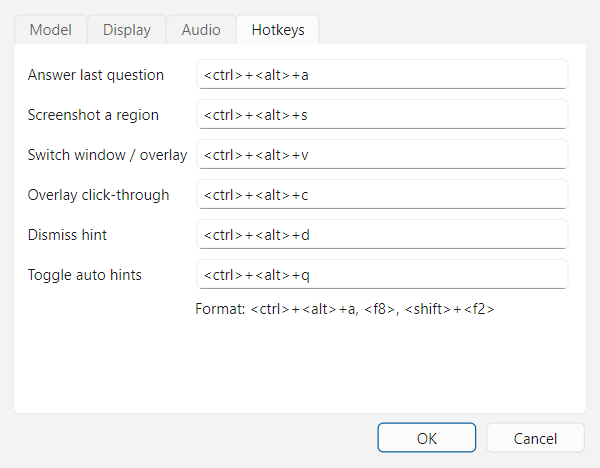
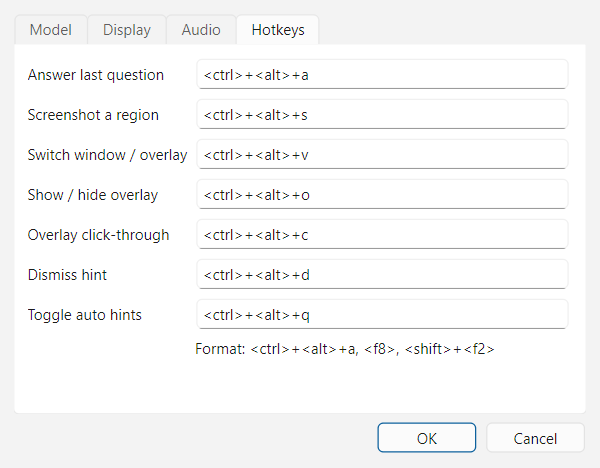
Overlay: resize by edges and corners, move by the status line; hotkey to show/hide the overlay

diff --git a/src/shade/ui/overlay.py b/src/shade/ui/overlay.py
@@ -1,20 +1,69 @@
-"""Semi-transparent always-on-top overlay mode."""
+"""Semi-transparent always-on-top overlay mode.
+
+Frameless, so it draws its own thin frame: drag an edge or corner to resize,
+drag the status line at the top to move. Position and size are remembered.
+"""
 
 from __future__ import annotations
 
-from PySide6.QtCore import QPoint, Qt
+from PySide6.QtCore import QEvent, QPoint, QSize, Qt, QTimer
+from PySide6.QtGui import QColor, QPainter, QPen
 from PySide6.QtWidgets import QVBoxLayout, QWidget
 
 from shade.ui.capture_guard import CaptureExcluded
-from shade.ui.ui_state import ui_state
 from shade.ui.hint_view import HintView
 from shade.ui.theme import overlay_stylesheet
+from shade.ui.ui_state import ui_state
 
 BASE_FLAGS = (
     Qt.WindowType.FramelessWindowHint
     | Qt.WindowType.WindowStaysOnTopHint
     | Qt.WindowType.Tool
 )
+RESIZE_MARGIN = 6  # px of frame around the content that resizes the overlay
+CORNER_EXTENT = 16  # px along an edge near a corner that grab the corner
+DEFAULT_SIZE = QSize(560, 470)
+
+_CURSORS = {
+    Qt.Edge.LeftEdge: Qt.CursorShape.SizeHorCursor,
+    Qt.Edge.RightEdge: Qt.CursorShape.SizeHorCursor,
+    Qt.Edge.TopEdge: Qt.CursorShape.SizeVerCursor,
+    Qt.Edge.BottomEdge: Qt.CursorShape.SizeVerCursor,
+}
+
+
+def edges_at(pos: QPoint, size: QSize, margin: int = RESIZE_MARGIN) -> Qt.Edge:
+    """Which window edges a point inside the overlay is close enough to grab."""
+    x, y, w, h = pos.x(), pos.y(), size.width(), size.height()
+    on_frame = x < margin or x >= w - margin or y < margin or y >= h - margin
+    if not on_frame:
+        return Qt.Edge(0)
+    # Near a corner, a wider zone along either edge grabs the corner.
+    reach_x = CORNER_EXTENT if (y < CORNER_EXTENT or y >= h - CORNER_EXTENT) else margin
+    reach_y = CORNER_EXTENT if (x < CORNER_EXTENT or x >= w - CORNER_EXTENT) else margin
+    edges = Qt.Edge(0)
+    if x < reach_x:
+        edges |= Qt.Edge.LeftEdge
+    elif x >= w - reach_x:
+        edges |= Qt.Edge.RightEdge
+    if y < reach_y:
+        edges |= Qt.Edge.TopEdge
+    elif y >= h - reach_y:
+        edges |= Qt.Edge.BottomEdge
+    return edges
+
+
+def _cursor_for(edges: Qt.Edges) -> Qt.CursorShape:
+    diag_main = (Qt.Edge.LeftEdge | Qt.Edge.TopEdge, Qt.Edge.RightEdge | Qt.Edge.BottomEdge)
+    diag_anti = (Qt.Edge.RightEdge | Qt.Edge.TopEdge, Qt.Edge.LeftEdge | Qt.Edge.BottomEdge)
+    if edges in diag_main:
+        return Qt.CursorShape.SizeFDiagCursor
+    if edges in diag_anti:
+        return Qt.CursorShape.SizeBDiagCursor
+    for edge, cursor in _CURSORS.items():
+        if edges == edge:
+            return cursor
+    return Qt.CursorShape.ArrowCursor
 
 
 class Overlay(CaptureExcluded, QWidget):
@@ -29,16 +78,27 @@ class Overlay(CaptureExcluded, QWidget):
         super().__init__(None, BASE_FLAGS)
         self.setAttribute(Qt.WidgetAttribute.WA_TranslucentBackground)
         self.setObjectName("overlay")
+        self.setMouseTracking(True)
+        self.setMinimumSize(240, 140)
         self.apply_style(bg_color, text_color, opacity)
         self.view = HintView(transcript_lines=3, show_history=False, font_size=font_size, compact=True)
         layout = QVBoxLayout(self)
-        layout.setContentsMargins(0, 0, 0, 0)
+        layout.setContentsMargins(RESIZE_MARGIN, RESIZE_MARGIN, RESIZE_MARGIN, RESIZE_MARGIN)
         layout.addWidget(self.view)
-        self.resize(560, 470)
-        pos = ui_state().value("overlay/pos")
+        # The status line doubles as the title bar: drag it to move the overlay.
+        self.view._status.installEventFilter(self)
+        self.view._status.setCursor(Qt.CursorShape.SizeAllCursor)
+
+        state = ui_state()
+        size = state.value("overlay/size")
+        self.resize(size if isinstance(size, QSize) else DEFAULT_SIZE)
+        pos = state.value("overlay/pos")
         if pos is not None:
             self.move(pos)
-        self._drag_from: QPoint | None = None
+        self._save_timer = QTimer(self)
+        self._save_timer.setSingleShot(True)
+        self._save_timer.setInterval(400)
+        self._save_timer.timeout.connect(self.save_geometry)
         self.click_through = False
         self.set_click_through(click_through)
 
@@ -53,15 +113,50 @@ class Overlay(CaptureExcluded, QWidget):
         if visible:
             self.show()  # flag changes hide the window and recreate it
 
-    # Drag anywhere to move (when not click-through).
-    def mousePressEvent(self, e):  # noqa: N802
-        if e.button() == Qt.MouseButton.LeftButton:
-            self._drag_from = e.globalPosition().toPoint() - self.frameGeometry().topLeft()
+    def save_geometry(self) -> None:
+        state = ui_state()
+        state.setValue("overlay/pos", self.pos())
+        state.setValue("overlay/size", self.size())
+        state.sync()
+
+    # ---- frame ----------------------------------------------------------
+
+    def paintEvent(self, event):  # noqa: N802
+        # Fully transparent pixels don't receive the mouse on Windows, so the
+        # resize frame is painted faintly (and doubles as a visible border).
+        p = QPainter(self)
+        p.fillRect(self.rect(), QColor(0, 0, 0, 30))  # every pixel, corners included
+        p.setPen(QPen(QColor(255, 255, 255, 60), 1))
+        p.drawRect(self.rect().adjusted(0, 0, -1, -1))
 
     def mouseMoveEvent(self, e):  # noqa: N802
-        if self._drag_from is not None:
-            self.move(e.globalPosition().toPoint() - self._drag_from)
+        self.setCursor(_cursor_for(edges_at(e.position().toPoint(), self.size())))
 
-    def mouseReleaseEvent(self, e):  # noqa: N802
-        self._drag_from = None
-        ui_state().setValue("overlay/pos", self.pos())
+    def mousePressEvent(self, e):  # noqa: N802
+        if e.button() != Qt.MouseButton.LeftButton:
+            return
+        edges = edges_at(e.position().toPoint(), self.size())
+        handle = self.windowHandle()
+        if edges and handle is not None:
+            handle.startSystemResize(edges)
+        elif handle is not None:
+            handle.startSystemMove()
+
+    def eventFilter(self, obj, event):  # noqa: N802
+        if (
+            obj is self.view._status
+            and event.type() == QEvent.Type.MouseButtonPress
+            and event.button() == Qt.MouseButton.LeftButton
+            and self.windowHandle() is not None
+        ):
+            self.windowHandle().startSystemMove()
+            return True
+        return super().eventFilter(obj, event)
+
+    def moveEvent(self, event):  # noqa: N802
+        super().moveEvent(event)
+        self._save_timer.start()
+
+    def resizeEvent(self, event):  # noqa: N802
+        super().resizeEvent(event)
+        self._save_timer.start()

diff --git a/tests/test_overlay.py b/tests/test_overlay.py
@@ -1,0 +1,63 @@
+from PySide6.QtCore import QPoint, QSize, Qt
+
+from shade.config import Settings
+from shade.ui.hotkeys import ACTIONS, HotkeyManager
+from shade.ui.overlay import Overlay, edges_at
+from shade.ui.settings_dialog import HOTKEY_LABELS
+
+E = Qt.Edge
+SIZE = QSize(500, 400)
+
+
+def test_edges_in_the_middle_is_none():
+    assert edges_at(QPoint(250, 200), SIZE) == Qt.Edge(0)
+    assert not edges_at(QPoint(250, 200), SIZE)
+
+
+def test_edges_at_sides_and_corners():
+    assert edges_at(QPoint(2, 200), SIZE) == E.LeftEdge
+    assert edges_at(QPoint(497, 200), SIZE) == E.RightEdge
+    assert edges_at(QPoint(250, 1), SIZE) == E.TopEdge
+    assert edges_at(QPoint(250, 398), SIZE) == E.BottomEdge
+    assert edges_at(QPoint(498, 398), SIZE) == E.RightEdge | E.BottomEdge
+    assert edges_at(QPoint(1, 1), SIZE) == E.LeftEdge | E.TopEdge
+
+
+def test_overlay_remembers_its_size(qtbot):
+    o = Overlay()
+    qtbot.addWidget(o)
+    o.resize(700, 333)
+    o.save_geometry()
+    o2 = Overlay()
+    qtbot.addWidget(o2)
+    assert o2.size() == QSize(700, 333)
+
+
+def test_overlay_has_a_minimum_size(qtbot):
+    o = Overlay()
+    qtbot.addWidget(o)
+    assert o.minimumWidth() >= 200 and o.minimumHeight() >= 120
+
+
+def test_toggle_overlay_hotkey():
+    assert "toggle_overlay" in ACTIONS
+    assert Settings().hotkeys["toggle_overlay"] == "<ctrl>+<alt>+o"
+    assert HOTKEY_LABELS["toggle_overlay"] == "Show / hide overlay"
+    valid, errors = HotkeyManager.parse(Settings().hotkeys)
+    assert errors == [] and "toggle_overlay" in valid
+
+
+def test_corner_zone_is_larger_than_the_frame():
+    # Near a corner, being on one edge is enough to grab both.
+    assert edges_at(QPoint(490, 398), SIZE) == E.RightEdge | E.BottomEdge
+    assert edges_at(QPoint(498, 388), SIZE) == E.RightEdge | E.BottomEdge
+
+
+def test_frame_is_never_fully_transparent(qtbot):
+    o = Overlay()
+    qtbot.addWidget(o)
+    o.show()
+    img = o.grab().toImage()
+    from PySide6.QtGui import QColor
+    for x, y in ((0, 0), (img.width() - 1, img.height() - 1), (img.width() - 1, 0)):
+        assert QColor.fromRgba(img.pixel(x, y)).alpha() > 0

diff --git a/src/shade/ui/app.py b/src/shade/ui/app.py
@@ -136,6 +136,8 @@ class ShadeApp(QObject):
     def on_hotkey(self, action: str) -> None:
         if action == "toggle_view":
             self.toggle_view()
+        elif action == "toggle_overlay":
+            self.toggle_overlay()
         elif action == "click_through":
             self.overlay.set_click_through(not self.overlay.click_through)
             self.settings.click_through = self.overlay.click_through
@@ -306,6 +308,16 @@ class ShadeApp(QObject):
         save_settings(self.settings, self.settings_path)
         self.view_actions[mode].setChecked(True)
         self.show_current_view()
+
+    def toggle_overlay(self) -> None:
+        """Show or hide the overlay without touching the window mode setting."""
+        if self.overlay.isVisible():
+            self.overlay.hide()
+        else:
+            self.overlay.show()
+            self.overlay.raise_()
+            if not self.overlay.capture_ok:
+                self.bridge.emit_event(Status(CAPTURE_WARNING))
 
     def toggle_view(self) -> None:
         self.set_display_mode("window" if self.settings.display_mode == "overlay" else "overlay")

diff --git a/src/shade/ui/hotkeys.py b/src/shade/ui/hotkeys.py
@@ -12,7 +12,9 @@ from PySide6.QtCore import QObject, Signal
 from pynput import keyboard
 from pynput.keyboard import Key, KeyCode
 
-ACTIONS = ("ask", "screenshot", "toggle_view", "click_through", "dismiss", "toggle_auto")
+ACTIONS = (
+    "ask", "screenshot", "toggle_view", "toggle_overlay", "click_through", "dismiss", "toggle_auto",
+)
 
 _MODIFIERS = {
     Key.ctrl_l: Key.ctrl, Key.ctrl_r: Key.ctrl,

diff --git a/src/shade/ui/settings_dialog.py b/src/shade/ui/settings_dialog.py
@@ -37,6 +37,7 @@ HOTKEY_LABELS = {
     "ask": "Answer last question",
     "screenshot": "Screenshot a region",
     "toggle_view": "Switch window / overlay",
+    "toggle_overlay": "Show / hide overlay",
     "click_through": "Overlay click-through",
     "dismiss": "Dismiss hint",
     "toggle_auto": "Toggle auto hints",

diff --git a/src/shade/config.py b/src/shade/config.py
@@ -46,6 +46,7 @@ DEFAULT_HOTKEYS = {
     "ask": "<ctrl>+<alt>+a",
     "screenshot": "<ctrl>+<alt>+s",
     "toggle_view": "<ctrl>+<alt>+v",
+    "toggle_overlay": "<ctrl>+<alt>+o",
     "click_through": "<ctrl>+<alt>+c",
     "dismiss": "<ctrl>+<alt>+d",
     "toggle_auto": "<ctrl>+<alt>+q",

diff --git a/README.md b/README.md
@@ -40,7 +40,9 @@ Settings → Display.
 </table>
 
 **Overlay** — the same hint on a semi-transparent layer over the call, with
-the last three transcript lines. Hidden from screen sharing. Background
+the last three transcript lines. Hidden from screen sharing. Drag its edges
+or corners to resize it, drag the status line at the top to move it;
+`Ctrl+Alt+O` shows or hides it. Background
 color, text color and background opacity are set in Settings → Display;
 the text itself stays fully opaque.
 
@@ -191,6 +193,7 @@ and Shade warns when GPU memory is above 90%. Small quantized models
 | Answer the last question | `Ctrl+Alt+A` |
 | Screenshot a region | `Ctrl+Alt+S` |
 | Switch window / overlay | `Ctrl+Alt+V` |
+| Show / hide overlay | `Ctrl+Alt+O` |
 | Toggle overlay click-through | `Ctrl+Alt+C` |
 | Dismiss the current hint | `Ctrl+Alt+D` |
 | Toggle auto hints | `Ctrl+Alt+Q` |
